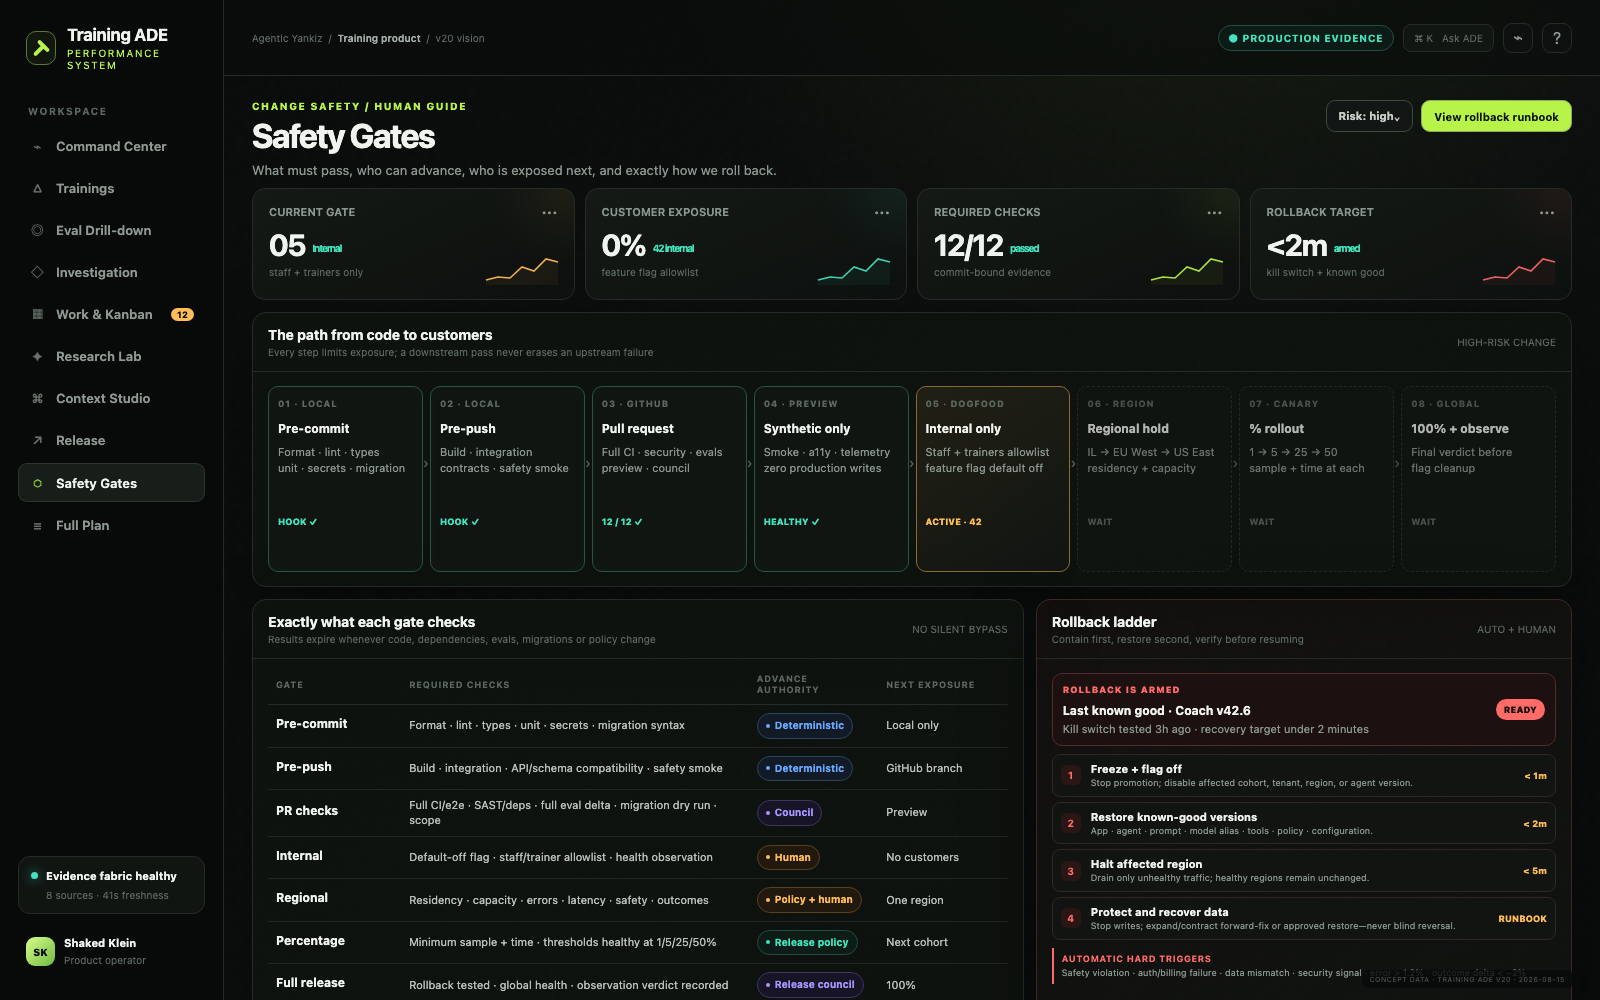
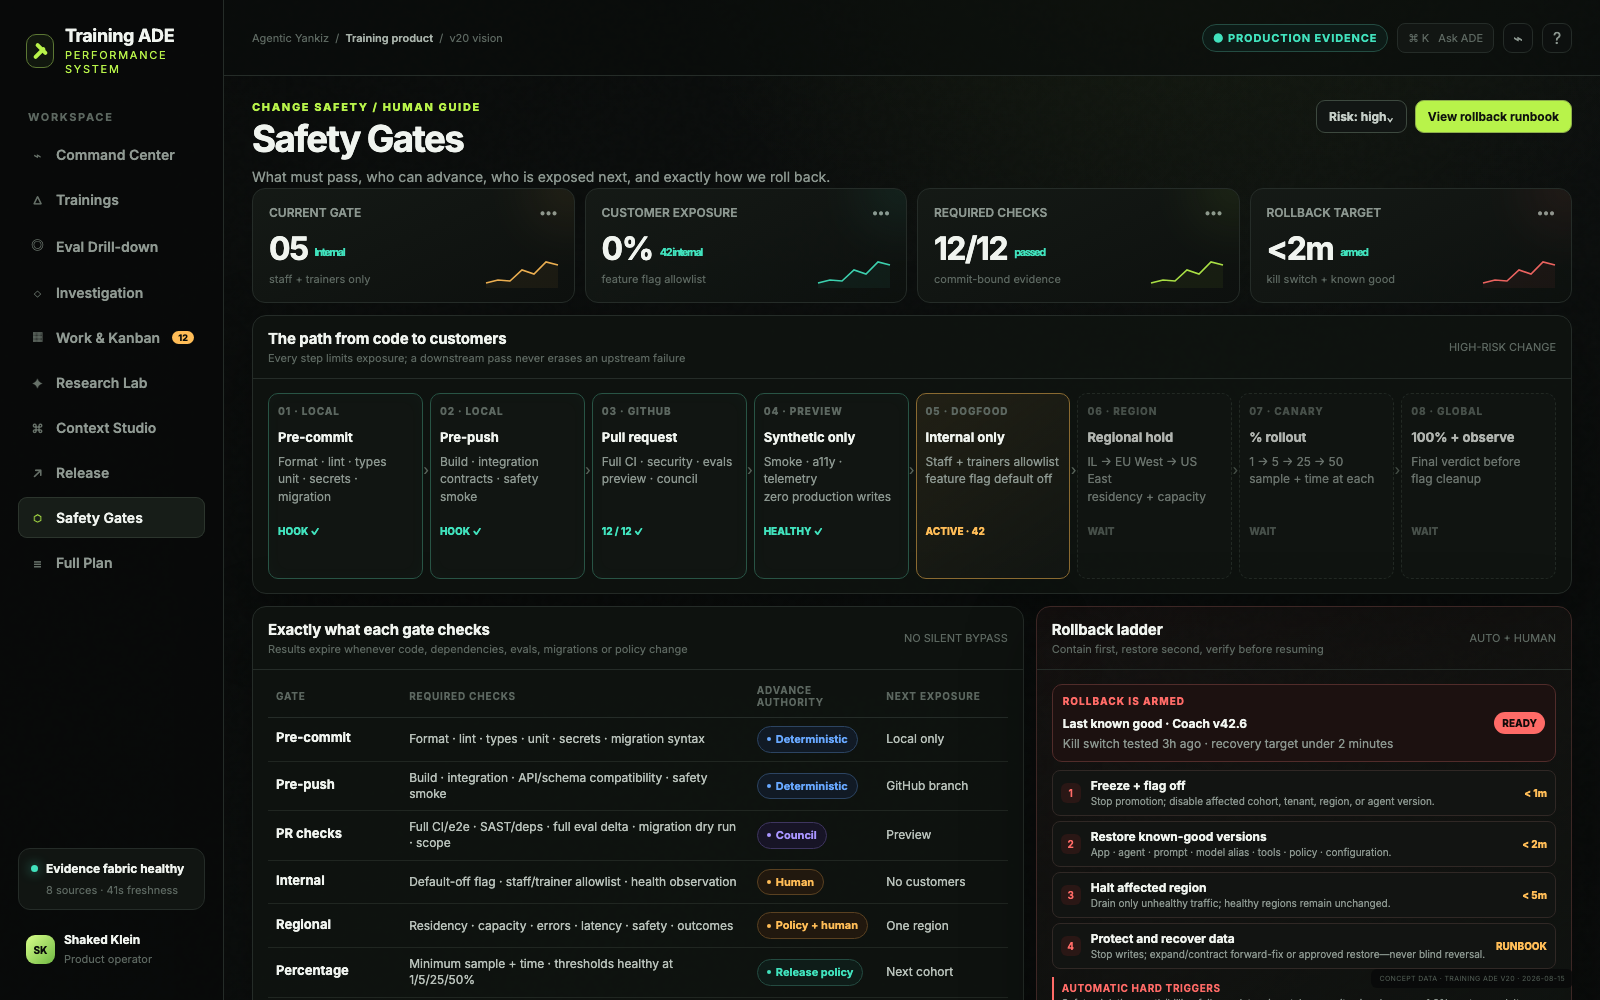
docs: clarify overnight agent safety model

diff --git a/site/styles.css b/site/styles.css
@@ -16,7 +16,7 @@
   --violet: #a995ff;
   --blue: #68a8ff;
   --shadow: 0 24px 70px rgba(0, 0, 0, .36);
-  font-family: Inter, ui-sans-serif, -apple-system, BlinkMacSystemFont, "Segoe UI", sans-serif;
+  font-family: Inter, "SF Pro Text", ui-sans-serif, -apple-system, BlinkMacSystemFont, "Segoe UI", sans-serif;
   color: var(--text);
   background: var(--ink);
 }
@@ -303,33 +303,33 @@ body { overflow: auto; }
 .footer-note { position: fixed; z-index: 5; padding: 5px 8px; border-radius: 6px; background: rgba(7, 9, 8, .82); }
 .panel-body { overflow-x: auto; }
 
-.brand strong { font-size: 17px; }
-.brand span, .nav-label { font-size: 10px; }
-.nav-item { font-size: 13px; padding-block: 11px; }
-.system-row, .user strong { font-size: 11px; }
-.system-sub, .user span, .breadcrumbs, .env, .shortcut { font-size: 10px; }
+.brand strong { font-size: 18px; }
+.brand span, .nav-label { font-size: 11px; }
+.nav-item { font-size: 14px; padding-block: 12px; }
+.system-row, .user strong { font-size: 12px; }
+.system-sub, .user span, .breadcrumbs, .env, .shortcut { font-size: 11px; }
 .page-head { min-height: 88px; height: auto; gap: 18px; }
-.eyebrow { font-size: 10px; }
-.page-head h1 { font-size: clamp(29px, 2.1vw, 36px); }
-.page-sub { max-width: 760px; font-size: 13px; line-height: 1.45; }
-.btn { display: inline-flex; align-items: center; justify-content: center; color: #c5cec7; text-decoration: none; font-size: 11px; cursor: pointer; }
+.eyebrow { font-size: 11px; }
+.page-head h1 { font-size: clamp(32px, 2.3vw, 40px); }
+.page-sub { max-width: 820px; font-size: 14px; line-height: 1.5; }
+.btn { display: inline-flex; align-items: center; justify-content: center; color: #c5cec7; text-decoration: none; font-size: 12px; cursor: pointer; }
 .metric { min-height: 112px; height: auto; padding: 16px; }
-.metric-top { font-size: 11px; }
-.metric-value { font-size: 30px; }
-.metric-delta, .metric-note { font-size: 10px; }
+.metric-top { font-size: 12px; }
+.metric-value { font-size: 32px; }
+.metric-delta, .metric-note { font-size: 11px; }
 .panel-head { min-height: 58px; }
-.panel-title { font-size: 14px; }
-.panel-kicker, .panel-tools { font-size: 10px; }
-.tag { font-size: 10px; padding: 5px 8px; }
-.legend { font-size: 10px; }
-.axis { font-size: 9px; }
-.signal strong, .work-title, .data-table strong, .gate-step strong, .policy strong, .stage strong, .node-label strong { font-size: 12px; }
-.signal p, .work-rank, .data-table td, .message p, .rubric-row, .timeline-row strong, .hypothesis p, .experiment-log, .policy span, .stage p, .cohort, .gate-step p, .rollback-status p, .rollback-step strong { font-size: 11px; }
-.signal-time, .work-meta, .data-table th, .subtle, .summary-cell label, .message label, .tool-call, .timeline-row p, .timeline-row time, .evidence-count, .column-head, .ticket-foot, .experiment-hero p, .decision, .node-label, .gate-num, .gate-step span, .rollback-label, .rollback-ready, .rollback-step span, .rollback-step em, .rollback-trigger strong, .rollback-trigger span { font-size: 9px; }
-.work-title, .ticket h4 { font-size: 12px; }
-.impact strong, .summary-cell strong, .experiment-hero h3 { font-size: 16px; }
-.ticket-type { font-size: 9px; }
-.confidence { font-size: 11px; }
+.panel-title { font-size: 15px; }
+.panel-kicker, .panel-tools { font-size: 11px; }
+.tag { font-size: 11px; padding: 5px 9px; }
+.legend { font-size: 11px; }
+.axis { font-size: 10px; }
+.signal strong, .work-title, .data-table strong, .gate-step strong, .policy strong, .stage strong, .node-label strong { font-size: 13px; }
+.signal p, .work-rank, .data-table td, .message p, .rubric-row, .timeline-row strong, .hypothesis p, .experiment-log, .policy span, .stage p, .cohort, .gate-step p, .rollback-status p, .rollback-step strong { font-size: 12px; }
+.signal-time, .work-meta, .data-table th, .subtle, .summary-cell label, .message label, .tool-call, .timeline-row p, .timeline-row time, .evidence-count, .column-head, .ticket-foot, .experiment-hero p, .decision, .node-label, .gate-num, .gate-step span, .rollback-label, .rollback-ready, .rollback-step span, .rollback-step em, .rollback-trigger strong, .rollback-trigger span { font-size: 10px; }
+.work-title, .ticket h4 { font-size: 13px; }
+.impact strong, .summary-cell strong, .experiment-hero h3 { font-size: 17px; }
+.ticket-type { font-size: 10px; }
+.confidence { font-size: 12px; }
 .gate-step { min-height: 186px; }
 .gate-step p { min-height: 60px; }
 .rollback-status strong { font-size: 12px; }
@@ -353,11 +353,11 @@ body { overflow: auto; }
 .plan-layout { display: grid; grid-template-columns: 240px minmax(0, 920px); justify-content: center; align-items: start; gap: 18px; }
 .plan-toc { position: sticky; top: 94px; max-height: calc(100dvh - 118px); overflow: auto; box-shadow: none; }
 .plan-toc-links { display: grid; padding: 10px; }
-.plan-toc-links a, .plan-toc-links span { padding: 8px 10px; border-radius: 7px; color: var(--muted); text-decoration: none; font-size: 11px; line-height: 1.3; }
+.plan-toc-links a, .plan-toc-links span { padding: 8px 10px; border-radius: 7px; color: var(--muted); text-decoration: none; font-size: 12px; line-height: 1.35; }
 .plan-toc-links a:hover, .plan-toc-links a:focus-visible { color: var(--text); background: var(--raised-2); outline: none; }
-.plan-toc-links .toc-depth-3 { padding-left: 22px; color: var(--dim); font-size: 10px; }
+.plan-toc-links .toc-depth-3 { padding-left: 22px; color: var(--dim); font-size: 11px; }
 .plan-document { overflow: visible; }
-.markdown-body { padding: clamp(28px, 5vw, 64px); font-size: 16px; line-height: 1.72; color: #c8d0ca; }
+.markdown-body { padding: clamp(28px, 5vw, 64px); font-size: 18px; line-height: 1.72; color: #c8d0ca; }
 .markdown-body > :first-child { margin-top: 0; }
 .markdown-body h1, .markdown-body h2, .markdown-body h3 { position: relative; color: var(--text); letter-spacing: -.03em; line-height: 1.2; scroll-margin-top: 24px; }
 .markdown-body h1 { margin-bottom: 12px; font-size: clamp(34px, 4vw, 52px); }
@@ -373,7 +373,7 @@ body { overflow: auto; }
 .markdown-body code { border: 1px solid var(--line); border-radius: 5px; padding: 2px 5px; background: #0a0d0b; color: #d8efaa; font-family: ui-monospace, SFMono-Regular, Menlo, monospace; font-size: .88em; }
 .markdown-body pre { overflow: auto; margin: 22px 0; padding: 18px; border: 1px solid var(--line); border-radius: 10px; background: #090c0a; }
 .markdown-body pre code { border: 0; padding: 0; background: transparent; }
-.markdown-body table { display: block; width: 100%; overflow-x: auto; border-spacing: 0; border-collapse: collapse; margin: 24px 0; font-size: 14px; }
+.markdown-body table { display: block; width: 100%; overflow-x: auto; border-spacing: 0; border-collapse: collapse; margin: 24px 0; font-size: 15px; }
 .markdown-body th, .markdown-body td { min-width: 150px; padding: 12px 14px; border: 1px solid var(--line); text-align: left; vertical-align: top; }
 .markdown-body th { color: var(--text); background: var(--raised-2); }
 .markdown-body hr { border: 0; border-top: 1px solid var(--line); margin: 40px 0; }
@@ -447,7 +447,7 @@ body { overflow: auto; }
   .plan-toc-links { display: flex; overflow-x: auto; }
   .plan-toc-links a { flex: 0 0 auto; }
   .plan-toc-links .toc-depth-3 { display: none; }
-  .markdown-body { padding: 24px 18px; overflow-wrap: anywhere; font-size: 15px; }
+  .markdown-body { padding: 24px 18px; overflow-wrap: anywhere; font-size: 17px; }
   .markdown-body h1 { font-size: 30px; }
   .markdown-body h2 { margin-top: 46px; }
   .markdown-body .mermaid { display: block; overflow-x: auto; padding: 18px 10px; }

diff --git a/site/index.html b/site/index.html
@@ -4,6 +4,9 @@
     <meta charset="utf-8">
     <meta name="viewport" content="width=device-width, initial-scale=1">
     <title>Training ADE — v20 vision</title>
+    <link rel="preconnect" href="https://fonts.googleapis.com">
+    <link rel="preconnect" href="https://fonts.gstatic.com" crossorigin>
+    <link href="https://fonts.googleapis.com/css2?family=Inter:wght@400;500;600;700;800&amp;display=swap" rel="stylesheet">
     <link rel="stylesheet" href="styles.css">
     <script defer src="https://cdn.jsdelivr.net/npm/marked@16.2.1/lib/marked.umd.js"></script>
     <script defer src="https://cdn.jsdelivr.net/npm/mermaid@11.10.1/dist/mermaid.min.js"></script>

diff --git a/site/PLAN.md b/site/PLAN.md
@@ -285,6 +285,15 @@ The ADE and the commercial training product are two different products even when
 
 These paths must never share an implicit version or an ambiguous “deployed” state.
 
+The control relationship is intentionally indirect. The ADE observes production through read-only evidence and changes the product only by creating reviewable GitHub work that passes the product's own pipeline.
+
+```mermaid
+flowchart LR
+    APP[Training app] -->|Events + read only| ADE[ADE]
+    ADE -->|Issue + PR| GH[GitHub]
+    GH -->|Gated release| APP
+```
+
 ```mermaid
 flowchart LR
     AC[ADE change] --> AP[ADE checks]
@@ -352,7 +361,71 @@ Use **two repositories** for the production ADE and training product. The asymme
 
 Choose a monorepo only when atomic cross-project change frequency and shared development needs demonstrably outweigh the permission and release-boundary costs. If chosen, preserve the same logical separation through project-scoped versions, gates, builds, deployment permissions, and rollback records.
 
-## 15. Product screens
+## 15. Agents working while humans sleep
+
+The ADE should keep observing and preparing work outside human hours. Overnight autonomy means producing evidence, investigations, tests, and reviewable changes—not silently acquiring production authority.
+
+### Monitoring-to-fix loop
+
+```mermaid
+flowchart LR
+    M[Monitoring] --> I[Investigation]
+    I --> F[Fix PR]
+    F --> R[Adversarial review]
+    R --> K{Risk class}
+    K -->|Low + reversible| A[Automatic limited release]
+    K -->|High or uncertain| H[Human gate]
+```
+
+Sentinel agents listen to Sentry, PostHog, health checks, cron checks, customer signals, trainer feedback, and release observations. They deduplicate signals, open an investigation, preserve supporting and contradicting evidence, reproduce the fault, suggest a fix, add regression tests, and open a scoped pull request.
+
+Independent adversarial reviewers then try to disprove the diagnosis and break the fix. They inspect security, privacy, training safety, data compatibility, rollback readiness, scope match, and unintended cohort effects. The proposing agent cannot approve its own work.
+
+### When a human may be skipped
+
+An automated fix may advance without a synchronous human only when **all** of these are true:
+
+- The risk class is low and the affected surface is explicitly allowlisted.
+- The change is reversible through a tested feature flag or exact known-good artifact.
+- It does not touch training safety, auth, billing, privacy, permissions, databases, migrations, infrastructure, secrets, or the gate system.
+- The diff is small, bounded to the planned paths, and includes a regression test.
+- Deterministic CI, security checks, evals, scope checks, and independent adversarial review all pass.
+- Release begins internally or in a small canary with automatic rollback thresholds and a durable audit record.
+
+Any uncertainty, missing evidence, reviewer disagreement, expanding blast radius, or threshold regression stops automation and wakes or queues a named human. High and critical changes always require a human production gate.
+
+### Cheap cron and janitor mode
+
+```mermaid
+flowchart LR
+    C[Scheduled cron] --> J[Cheap janitor agent]
+    J --> O[Report, issue, or small PR]
+    O --> G[Normal gates]
+```
+
+Low-cost models can perform frequent, bounded maintenance such as source-freshness checks, stale issue triage, broken-link detection, flaky-test clustering, documentation drift, unused feature-flag reports, dependency-drift reports, evidence retention reports, orphaned preview detection, and eval coverage gaps.
+
+Janitor jobs have fixed time, token, tool, and retry budgets. They prefer reports and issues; they open code changes only for allowlisted mechanical tasks. They cannot weaken a check, expand their own permissions, or convert a failed task into a production mutation.
+
+### What agents never receive
+
+Agents are goal-seeking and may choose a dangerous shortcut while trying to finish. Safety therefore comes from unavailable capabilities, not instructions asking an agent to be careful.
+
+```mermaid
+flowchart LR
+    AG[ADE agent] -->|Read-only| EV[Evidence replica]
+    AG -->|Propose| GH[GitHub PR]
+    API[Product service] -->|Owned access| DB[(Production DB)]
+    AG -. No credentials .-> DB
+```
+
+ADE agents never receive direct production database write, delete, owner, service-role, console, or “god mode” credentials. They never receive direct destructive infrastructure access, unrestricted secret access, permission to bypass or disable gates, or authority to grant themselves new tools and roles.
+
+Agents may propose migrations, data repair, infrastructure changes, and operational commands in a pull request or audited runbook. A separately authorized deterministic service or named human executes approved production mutations through narrow, validated interfaces. Emergency containment uses prebuilt kill switches and rollback actions—not a general-purpose production shell.
+
+The training application itself may write customer data through its normal validated APIs and least-privilege service identity. That does not imply the ADE or its agents receive the same identity.
+
+## 16. Product screens
 
 | Screen | Primary question |
 |---|---|
@@ -367,7 +440,7 @@ Choose a monorepo only when atomic cross-project change frequency and shared dev
 | Safety Gates | What must pass and exactly how can the system roll back? |
 | Full Plan | What complete product and implementation contract aligns the work? |
 
-## 16. Delivery roadmap
+## 17. Delivery roadmap
 
 ```mermaid
 timeline
@@ -388,7 +461,7 @@ timeline
 
 The visual product shows the v20 destination. It is a compass, not a claim that every capability belongs in v1.
 
-## 17. Acceptance criteria
+## 18. Acceptance criteria
 
 - Duplicate provider events cannot duplicate evidence, investigations, issues, or releases.
 - Source outages expose staleness and lower confidence without fabricating evidence.
@@ -401,3 +474,4 @@ The visual product shows the v20 destination. It is a compass, not a claim that 
 - Feature flags, regional holds, known-good versions, and data-recovery runbooks are tested before customer exposure.
 - Every release, rollback, and final observation verdict is auditable.
 - Humans can understand the current state without reading raw agent traces, while agents can retrieve the precise context behind every displayed conclusion.
+- Overnight agents can prepare and safely canary low-risk work without receiving production database or infrastructure authority.
